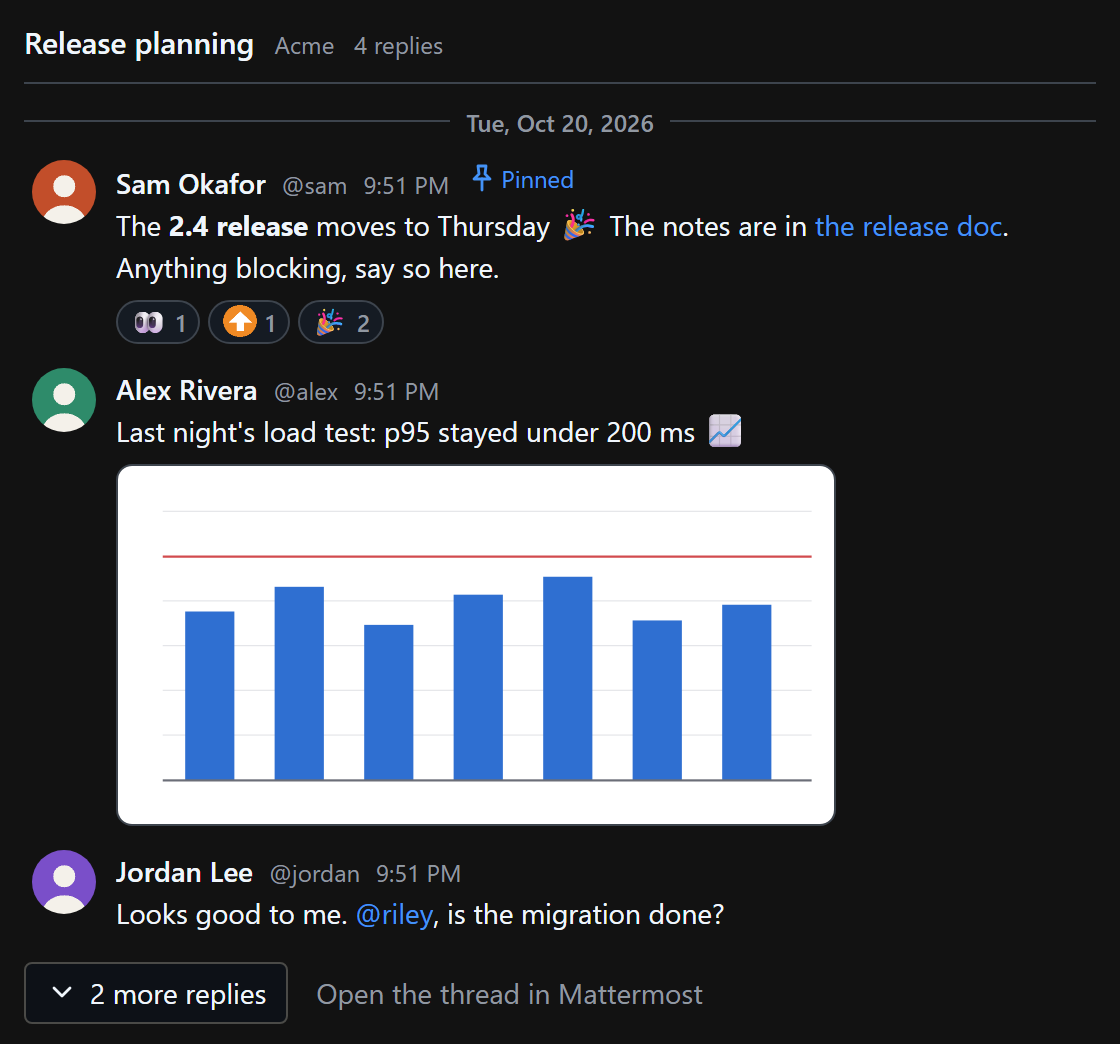
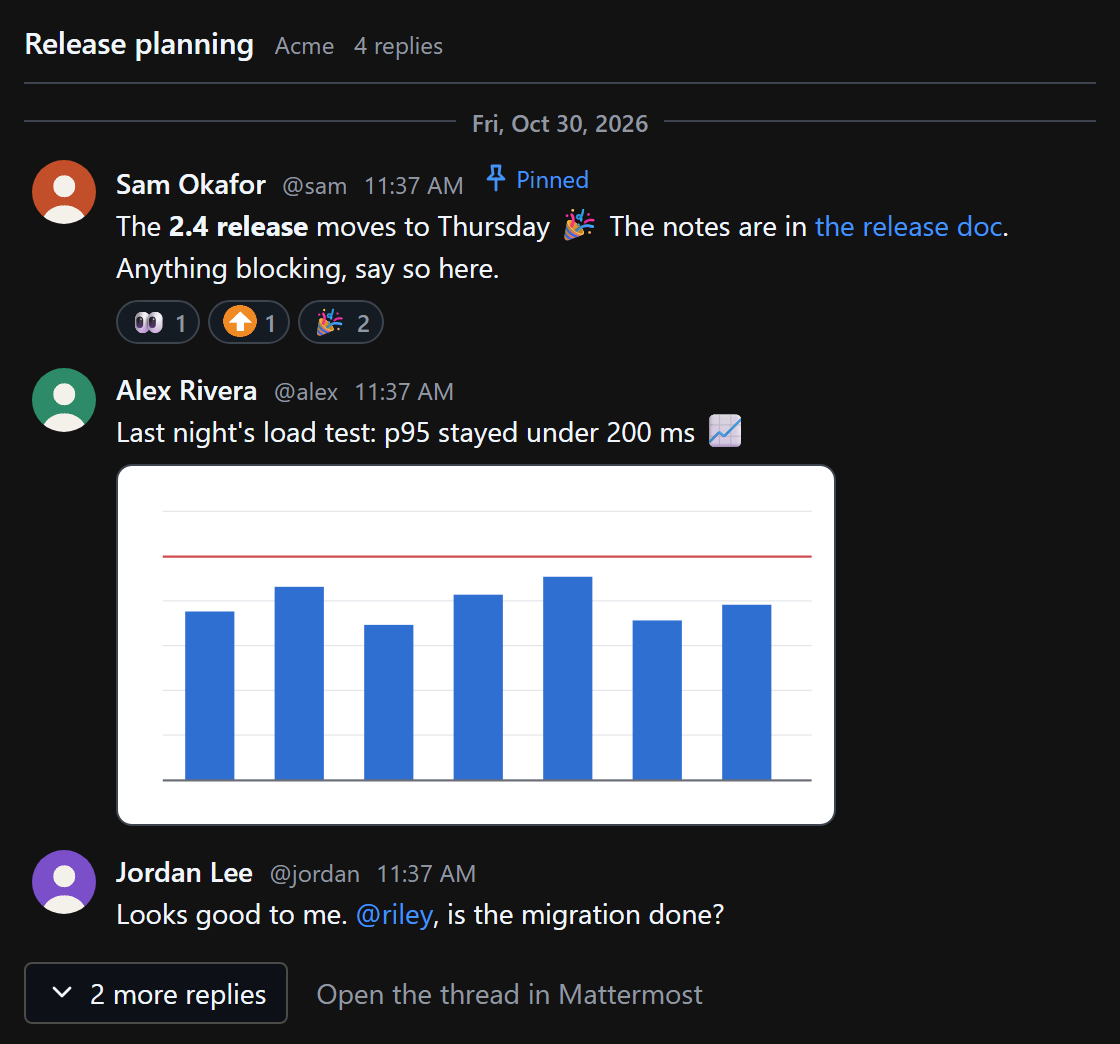
feat: a quote opens the post it quotes, and a long one is cut to a height
A press anywhere on a quote opens the quoted post, as in Mattermost: in the
view's place with a way back, where the app lets a view call tools, and
otherwise in Mattermost. A link inside the quote still opens that link, and
selecting its text opens nothing. A long quote is cut to a height and faded
where it is cut, so one post cannot fill the view.

Changed region(s): [[0.3125, 0.092, 0.5938, 0.1839], [0.3438, 0.8276, 0.4375, 0.8582], [0.3125, 0.3678, 0.4062, 0.3985]]

diff --git a/internal/views/page/thread.js b/internal/views/page/thread.js
@@ -39,6 +39,7 @@ function renderThread(data) {
 
   const shown = replies;
   return el("article", { class: "thread" },
+    view.trail.length > 0 ? backButton() : null,
     threadHeader(place, root, total),
     list,
     root && withThread && total > shown ? moreReplies(data, root, total - shown) : null,
@@ -199,24 +200,83 @@ function isObject(value) {
 // renderQuote is the post a post links to, quoted below its message as
 // Mattermost quotes it: its author, under the name an integration chose,
 // when, its label, its message, its own preview, and the channel it was
-// posted in. Its time opens it in Mattermost.
+// posted in. A long message is cut to a height, and all of it opens the post:
+// the box, for a pointer, and its time, for a keyboard. A link in it opens the
+// link, and selecting its text opens nothing.
 function renderQuote(quote, markdown) {
   const text = (value) => typeof value === "string" ? value : "";
   const at = text(quote.created_at);
   const files = Array.isArray(quote.files) ? quote.files.length : 0;
   const priority = priorityLabel(quote.priority);
-  return el("blockquote", { class: "quote" },
+  const label = at ? formatTime(at) : t("quote.open");
+  const opens = isWebURL(text(quote.url));
+  const box = el("blockquote", { class: "quote", dataset: { opens: opens ? "true" : "false" } },
     el("div", { class: "post-header" },
       el("span", { class: "author", title: text(quote.shown_as) && text(quote.author) ? "@" + quote.author : null },
         text(quote.shown_as) || text(quote.author_name) || text(quote.author)),
-      linkButton(text(quote.url), [at ? formatTime(at) : t("quote.open")], { class: "link time", "aria-label": t("quote.open") }),
+      opens
+        ? el("button", { type: "button", class: "link time", title: quote.url, "aria-label": t("quote.open"), onclick: () => openQuote(quote) }, label)
+        : el("span", { class: "link time", "aria-label": t("quote.open") }, label),
       priority ? el("span", { class: "priority-tag", dataset: { priority: quote.priority } }, priority) : null,
       quote.ai_generated === true ? el("span", { class: "mark muted" }, t("post.ai")) : null),
-    renderMarkdown(text(quote.message), markdown),
+    clampedToHeight(renderMarkdown(text(quote.message), markdown)),
     quote.message_length ? el("p", { class: "muted cut" }, t("post.cut", { count: quote.message_length }), " ", linkButton(text(quote.url), [t("post.read_whole")])) : null,
     files > 0 ? el("div", { class: "muted quote-files" }, icon("file"), t("quote.files", { count: files })) : null,
     isObject(quote.link_preview) ? renderLinkPreview(quote.link_preview, markdown) : null,
     text(quote.channel) ? el("div", { class: "muted quote-channel" }, t("quote.channel", { channel: quote.channel })) : null);
+  if (opens) {
+    box.addEventListener("click", (event) => {
+      if (event.target.closest("a, button, summary") || String(window.getSelection())) return;
+      openQuote(quote);
+    });
+  }
+  return box;
+}
+
+// clampedToHeight cuts a quote's text to a height, and fades what is cut where
+// it is, since only a laid out element knows how tall it is.
+function clampedToHeight(box) {
+  box.classList.add("quote-text");
+  new ResizeObserver(() => {
+    box.dataset.clamped = box.scrollHeight > box.clientHeight + 1 ? "true" : "false";
+  }).observe(box);
+  return box;
+}
+
+// openQuote opens the post a quote shows: in a thread, where the host lets the
+// view call tools, in the view's place, with the way back, and otherwise in
+// Mattermost. Where the host refuses the call, the view says so and offers it
+// in Mattermost.
+async function openQuote(quote) {
+  if (!view.callsTools || !view.input || view.input.kind !== "thread" || typeof quote.id !== "string" || quote.id === "") {
+    openLink(quote.url);
+    return;
+  }
+  try {
+    const result = await bridge.callTool("view_action", { action: "thread", post_id: quote.id });
+    const data = result && !result.isError ? result.structuredContent : null;
+    if (!data || typeof data !== "object") throw new Error("nothing came back");
+    view.trail.push(view.result);
+    view.result = data;
+    view.notice = null;
+    render();
+    const back = document.querySelector(".back");
+    if (back) back.focus();
+  } catch {
+    notice(t("quote.open_refused"), quote.url);
+  }
+}
+
+// backButton is the way back from a post opened from a quote.
+function backButton() {
+  return el("button", {
+    type: "button",
+    class: "more back",
+    onclick: () => {
+      view.result = view.trail.pop();
+      render();
+    },
+  }, icon("back"), t("thread.back"));
 }
 
 // renderLinkPreview is the page or picture a post's first link leads to, as

diff --git a/internal/views/page/view.css b/internal/views/page/view.css
@@ -364,6 +364,11 @@ button:focus-visible { outline: 2px solid var(--mm-link); outline-offset: 2px; b
   border-radius: var(--mm-radius);
   background: var(--mm-bg);
 }
+.quote[data-opens="true"] { cursor: pointer; }
+.quote[data-opens="true"]:hover { border-color: var(--mm-border-strong); }
+/* A long quote is cut to a height, faded where it is cut; opening it reads the rest. */
+.quote-text { max-block-size: 12em; overflow: hidden; }
+.quote-text[data-clamped="true"] { mask-image: linear-gradient(to bottom, #000 70%, transparent); }
 .quote .post-header { gap: 2px 8px; }
 .quote-files { display: flex; align-items: center; gap: 4px; font-size: var(--mm-text-xs); }
 .quote-channel { font-size: var(--mm-text-xs); overflow-wrap: anywhere; }
@@ -472,6 +477,7 @@ button:focus-visible { outline: 2px solid var(--mm-link); outline-offset: 2px; b
   cursor: pointer;
 }
 .more:disabled { opacity: 0.6; cursor: progress; }
+.back { margin-block-end: 8px; }
 
 @media (prefers-reduced-motion: no-preference) {
   .skeleton-line { animation: pulse 1.4s ease-in-out infinite; }

diff --git a/internal/views/page/dom.js b/internal/views/page/dom.js
@@ -65,6 +65,7 @@ const ICON_SHAPES = {
   flame: [["path", "M8 14.5a4 4 0 0 1-4-4c0-2.8 2.4-4.4 3-8c2 1.4 5 4.4 5 8a4 4 0 0 1-4 4z"], ["path", "M8 14.5a1.6 1.6 0 0 1-1.6-1.6c0-1.2 1-1.8 1.6-3.2c.6 1.4 1.6 2 1.6 3.2A1.6 1.6 0 0 1 8 14.5z"]],
   alert: [["path", "M8 2l6.5 11.5h-13z"], ["path", "M8 6.5v3"], ["disc", 8, 11.5, 0.7]],
   "alert-circle": [["path", "M8 1.5a6.5 6.5 0 1 0 0 13a6.5 6.5 0 1 0 0-13z"], ["path", "M8 4.5v4"], ["disc", 8, 11, 0.7]],
+  back: [["path", "M10 3L5 8l5 5"]],
   phone: [["path", "M3.5 2h2.5l1.2 3-1.6 1.1a8 8 0 0 0 3.3 3.3l1.1-1.6 3 1.2v2.5a1.5 1.5 0 0 1-1.6 1.5A11.5 11.5 0 0 1 2 3.6A1.5 1.5 0 0 1 3.5 2z"]],
 };
 

diff --git a/internal/views/page/main.js b/internal/views/page/main.js
@@ -22,6 +22,8 @@ const view = {
   // What the view draws: the call's arguments, and its result.
   input: null,
   result: null,
+  // The results a quote was opened from, latest last, for the way back.
+  trail: [],
   error: "",
   waited: false,
   standalone: false,
@@ -36,6 +38,7 @@ bridge.on("ui/notifications/tool-input", (params) => {
 
 bridge.on("ui/notifications/tool-result", (result) => {
   view.result = null;
+  view.trail = [];
   view.error = "";
   if (!result || typeof result !== "object") {
     view.error = t("view.nothing");

diff --git a/internal/views/previews_browser_test.go b/internal/views/previews_browser_test.go
@@ -100,12 +100,15 @@ func TestWhatALinkLeadsToIsDrawnAsMattermostDrawsIt(t *testing.T) {
 		t.Errorf("the alert's pictures and links are drawn as %+v", drawn)
 	}
 
-	// The quote's time opens the quoted post in Mattermost.
-	h.click(i, "[data-post=\"q1\"] .quote .time")
+	// A link inside the quote opens that link, and not the quoted post.
+	h.click(i, "[data-post=\"q1\"] .quote .link-title button")
 	var links []string
 	h.in(i, "return f.links;", &links)
-	if len(links) != 1 || links[0] != "https://chat.example.com/team/pl/r1" {
-		t.Errorf("the quote opened %v", links)
+	if len(links) != 1 || links[0] != "https://example.com/retries" {
+		t.Errorf("the link in the quote opened %v", links)
+	}
+	if calls := h.calls(i); len(calls) != 0 {
+		t.Errorf("the link in the quote also called %v", calls)
 	}
 }
 
@@ -135,4 +138,116 @@ func TestAQuoteOrAPreviewIsNeverParsedAsHTML(t *testing.T) {
 		!strings.HasPrefix(found.Author, "<img") || !strings.Contains(found.Channel, "<img") || !strings.HasPrefix(found.Title, "<img") {
 		t.Errorf("a hostile quote or preview was parsed, or its script link made a button: %+v", found)
 	}
+}
+
+// showPreviews mounts the thread above, with extra options for the host.
+func showPreviews(extra map[string]any) map[string]any {
+	options := map[string]any{
+		"input":     map[string]any{"kind": "thread", "post_id": "q1"},
+		"result":    map[string]any{"content": []any{map[string]any{"type": "text", "text": "Shown to the person"}}, "structuredContent": previews()},
+		"resources": pictures(),
+	}
+	for key, value := range extra {
+		options[key] = value
+	}
+	return options
+}
+
+// A press anywhere on a quote opens the quoted post: in the view's place where
+// the host lets the view call tools, with the way back, in Mattermost where it
+// does not, and with a word about it where it refuses.
+func TestAQuoteOpensTheQuotedPost(t *testing.T) {
+	h := openHost(t)
+	quoted := post("r1", "bob", "Bob Example", "u2", "2026-10-01T14:00:00+02:00", "The retry budget is 3 attempts", map[string]any{
+		"channel": "Architecture", "channel_url": "https://chat.example.com/team/channels/architecture", "team": "Team", "reply_count": 0,
+	})
+	i := h.mount(showPreviews(map[string]any{"tools": map[string]any{"view_action": []any{
+		answered(map[string]any{"post": quoted, "root_id": "r1", "thread": []any{quoted}}),
+	}}}))
+	h.click(i, `[data-post="q1"] .quote .quote-text`)
+	h.untilIn(i, `d.querySelector('[data-post="r1"]')`)
+	calls := h.calls(i)
+	arguments, _ := calls[len(calls)-1]["arguments"].(map[string]any)
+	if len(calls) != 1 || arguments["action"] != "thread" || arguments["post_id"] != "r1" {
+		t.Errorf("the quote called %v", calls)
+	}
+	var there struct {
+		Original, Focused bool
+		Links             []string
+	}
+	h.in(i, `return { Original: Boolean(d.querySelector('[data-post="q1"]')), Focused: d.activeElement === d.querySelector('.back'), Links: f.links };`, &there)
+	if there.Original || !there.Focused || len(there.Links) != 0 {
+		t.Errorf("the quoted post is drawn as %+v", there)
+	}
+	h.click(i, ".back")
+	h.untilIn(i, `d.querySelector('[data-post="q1"]') && !d.querySelector('.back')`)
+
+	// The time opens it too, for a keyboard. Where the host offers no tools, it
+	// opens in Mattermost, as does the box.
+	none := h.mount(showPreviews(map[string]any{"without": []string{"serverTools"}}))
+	h.click(none, `[data-post="q1"] .quote .time`)
+	h.click(none, `[data-post="q1"] .quote`)
+	var links []string
+	h.in(none, "return f.links;", &links)
+	if strings.Join(links, " ") != "https://chat.example.com/team/pl/r1 https://chat.example.com/team/pl/r1" {
+		t.Errorf("without tools, the quote opened %v", links)
+	}
+	if calls := h.calls(none); len(calls) != 0 {
+		t.Errorf("without tools, the quote called %v", calls)
+	}
+
+	// Selecting a quote's text to copy it opens nothing.
+	selecting := h.mount(showPreviews(map[string]any{"without": []string{"serverTools"}}))
+	var clicked bool
+	h.in(selecting, `w.getSelection().selectAllChildren(d.querySelector('[data-post="q1"] .quote-text')); d.querySelector('[data-post="q1"] .quote-text').click(); w.clickedAt = Date.now(); return true;`, &clicked)
+	// What opens reaches the host a moment later, so nothing having opened is
+	// read after that moment.
+	h.untilIn(selecting, `Date.now() - d.defaultView.clickedAt > 500`)
+	h.in(selecting, "return f.links;", &links)
+	if len(links) != 0 {
+		t.Errorf("selecting the quote's text opened %v", links)
+	}
+
+	// A host that refuses says so, and offers the post in Mattermost.
+	refused := h.mount(showPreviews(map[string]any{"tools": map[string]any{"view_action": []any{map[string]any{"isError": true, "content": []any{}}}}}))
+	h.click(refused, `[data-post="q1"] .quote`)
+	h.untilIn(refused, `d.querySelector('.notice')`)
+	if got := h.text(refused, ".notice"); !strings.Contains(got, "This app does not open the quoted post here.") {
+		t.Errorf("a refusal says %q", got)
+	}
+
+	// A quote whose address is no web address opens nothing, and does not look
+	// as if it would.
+	var hostile struct {
+		Opens string
+		Links []string
+	}
+	h.in(none, `const q = d.querySelector('[data-post="q5"] .quote'); q.click(); return { Opens: q.dataset.opens, Links: f.links };`, &hostile)
+	if hostile.Opens != "false" || len(hostile.Links) != 2 {
+		t.Errorf("a quote with a hostile address is drawn as %+v", hostile)
+	}
+}
+
+// A long quote is cut to a height, and faded where it is cut; a short one is
+// left as it is.
+func TestALongQuoteIsCutToAHeight(t *testing.T) {
+	h := openHost(t)
+	long := previews()
+	root, _ := long["post"].(map[string]any)
+	quote, _ := root["quoted_post"].(map[string]any)
+	quote["message"] = strings.Repeat("The retry budget is 3 attempts, and here is why.\n\n", 40)
+	i := h.mount(map[string]any{
+		"input":     map[string]any{"kind": "thread", "post_id": "q1"},
+		"result":    map[string]any{"content": []any{map[string]any{"type": "text", "text": "Shown to the person"}}, "structuredContent": long},
+		"resources": pictures(),
+	})
+	h.untilIn(i, `d.querySelector('[data-post="q1"] .quote-text').dataset.clamped === 'true'`)
+	var drawn struct{ Height, Whole int }
+	h.in(i, `const q = d.querySelector('[data-post="q1"] .quote-text'); return { Height: q.clientHeight, Whole: q.scrollHeight };`, &drawn)
+	if drawn.Height >= drawn.Whole || drawn.Height > 300 {
+		t.Errorf("a long quote is drawn %d high of %d", drawn.Height, drawn.Whole)
+	}
+
+	short := h.mount(showPreviews(nil))
+	h.untilIn(short, `d.querySelector('[data-post="q1"] .quote-text').dataset.clamped === 'false'`)
 }
